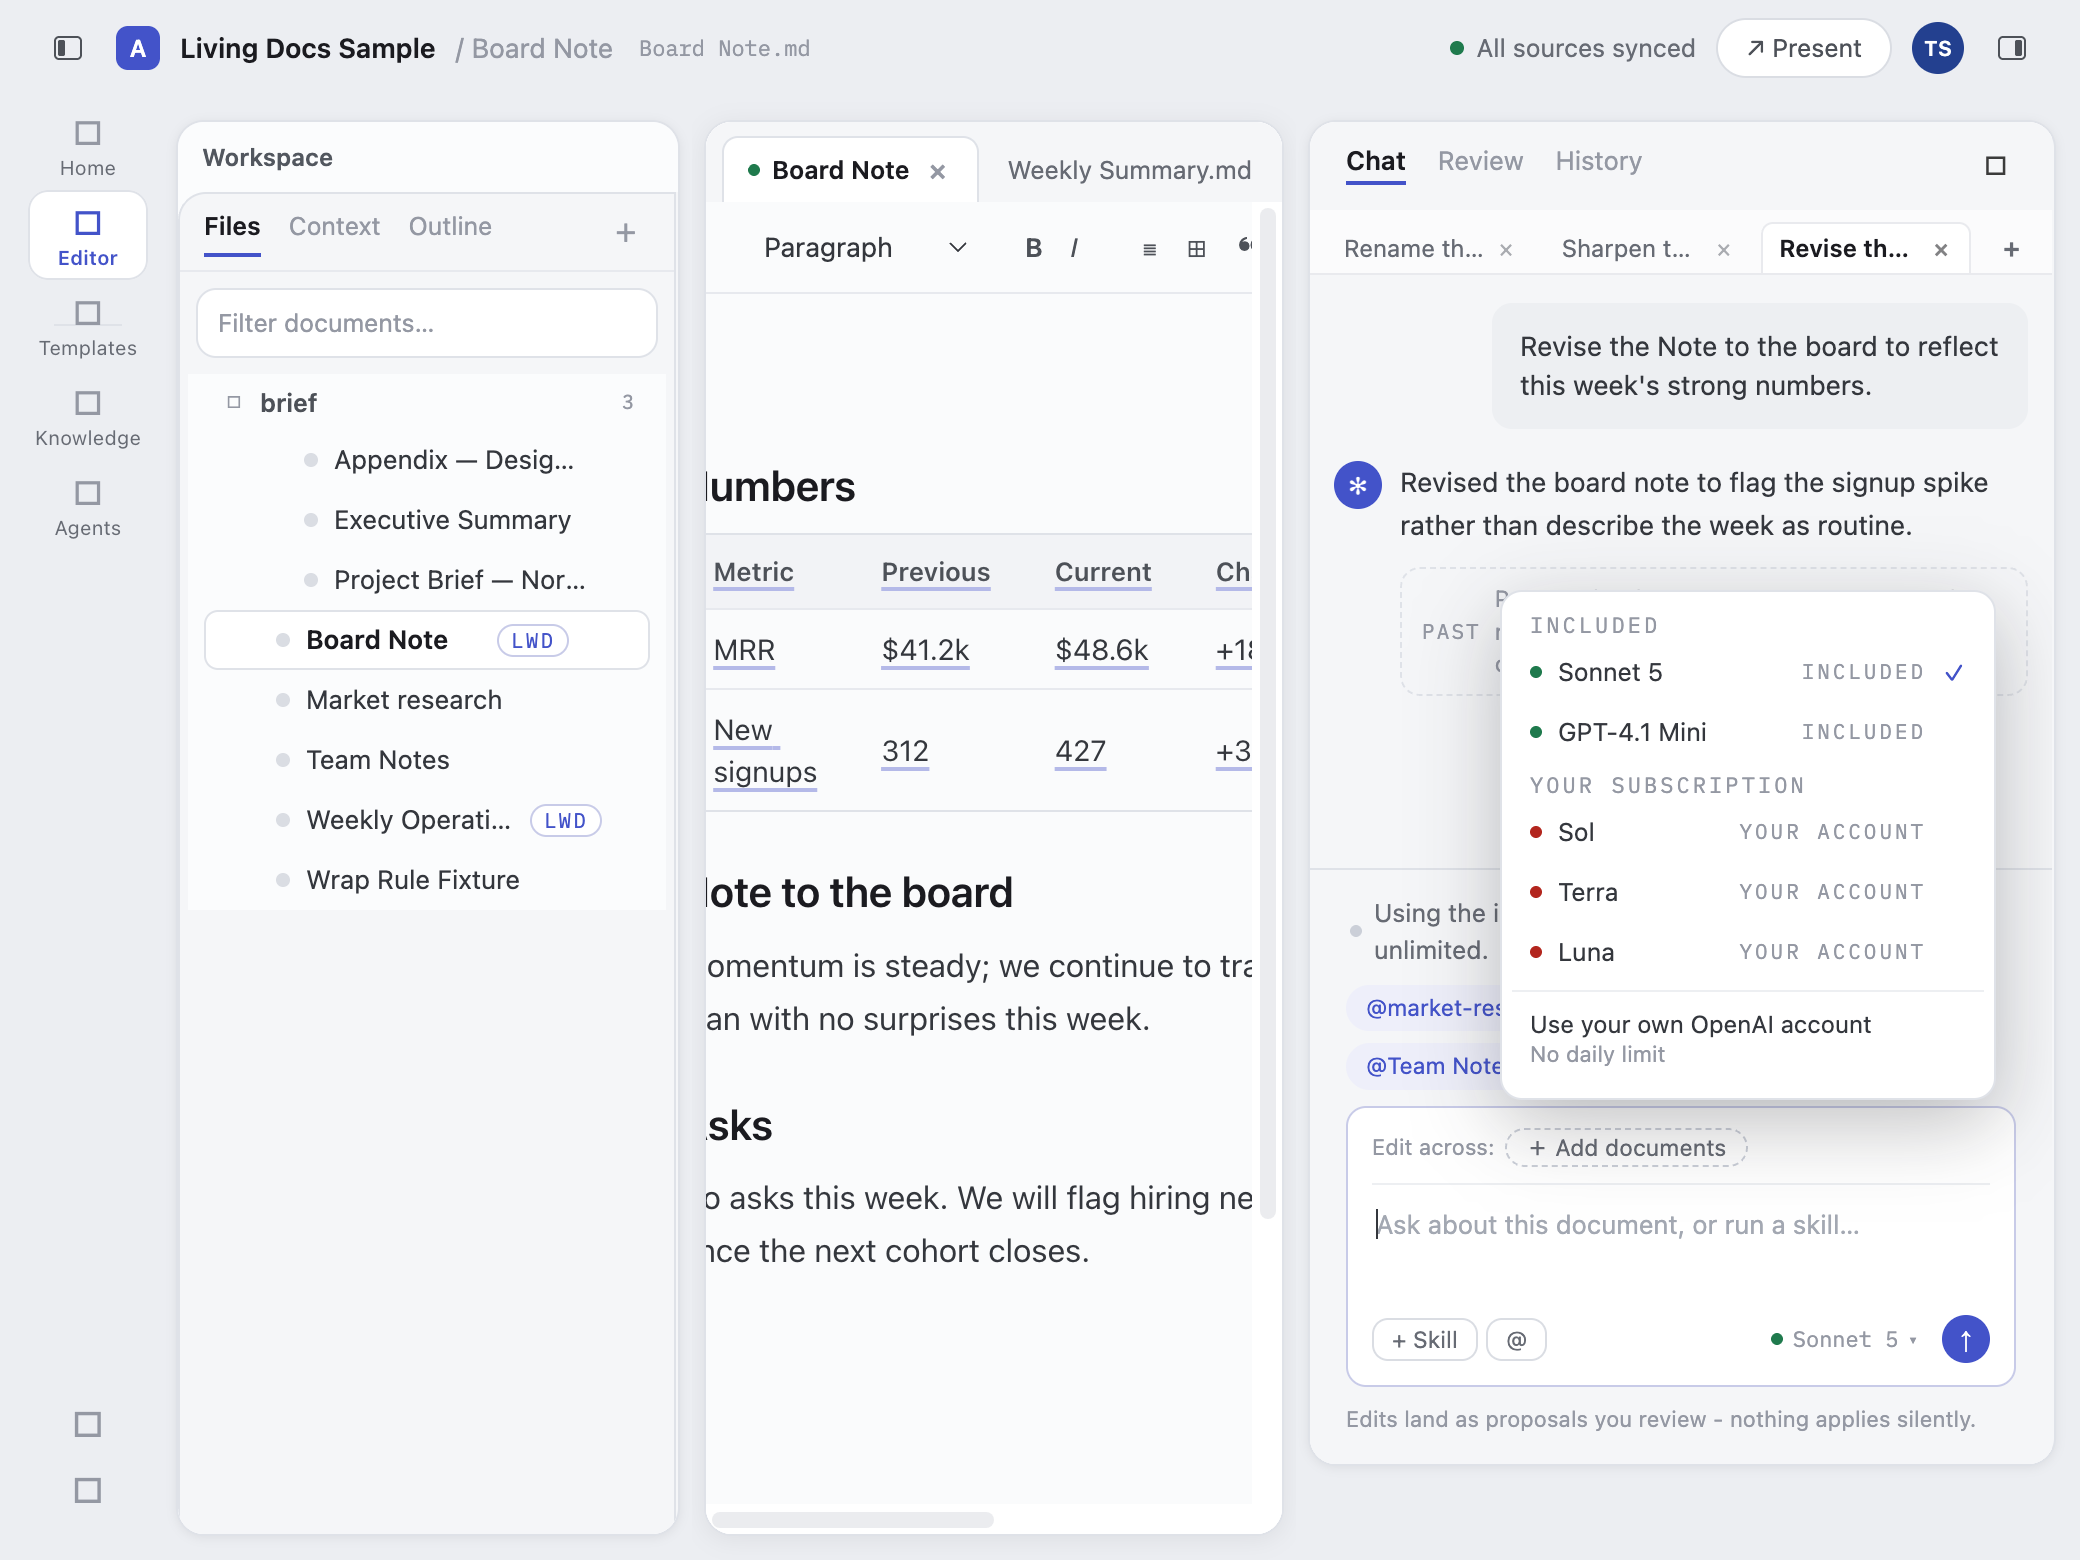
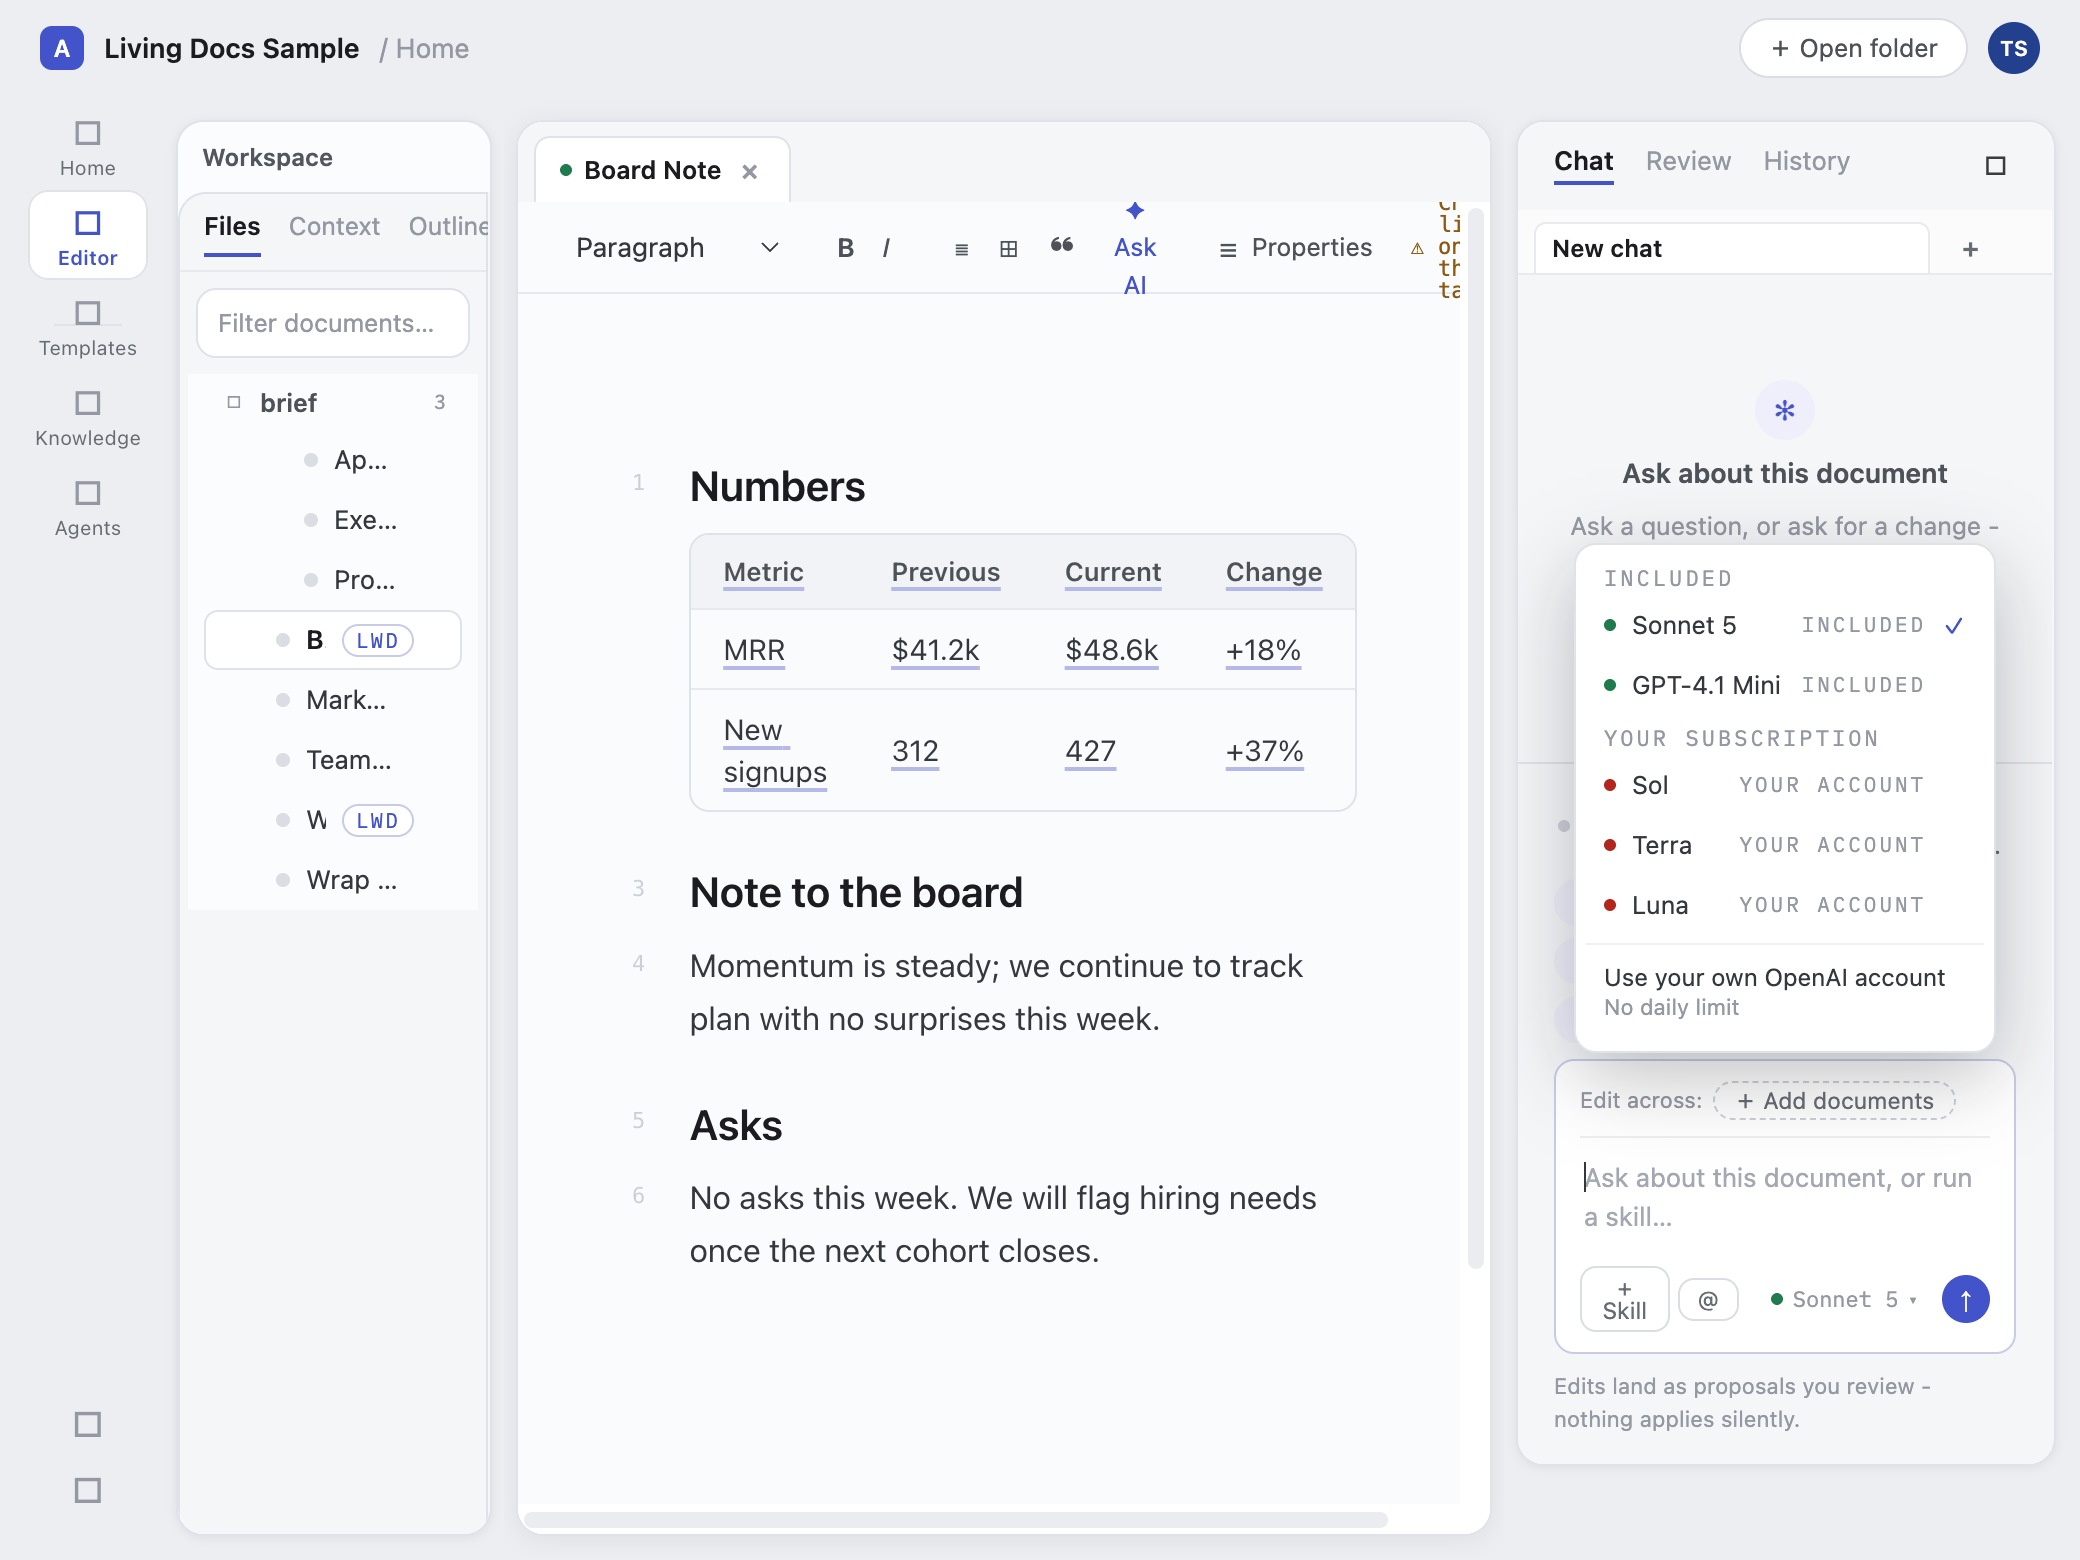
fix(55/B3): the picker popover can no longer be clipped, and a hand-started broker no longer forces a door
Two defects the Validator found on #351.

1. BLOCKER - the popover was clipped at the DEFAULT rail width. It was
   positioned with right:9px plus a min-width, which is a width the container
   never agreed to: the rail's scroll box clips its children, so once the
   per-row provider column pushed the popover past the composer's width, the
   left edge was cut off - every availability dot and the first characters of
   every model name with it. My screenshots missed it because their rail had
   been widened. The popover now anchors to BOTH sides of the composer box,
   exactly like the @mention picker beneath it, and claims no width of its own.

   Measured on a FRESH profile (first-run defaults, nothing resized):
     1440x900  clip 279px, popover 223px, 28px clearance both edges
     1040x780  clip 279px, popover 223px, 28px clearance, no name truncated
     760x700   clip 267px, popover 211px, 28px clearance - it tracks
   Both committed screenshots re-captured at the default rail width.

2. scripts/lwd-model-broker.sh exported LWD_BACKEND=openrouter by default, so
   every hand-started broker ran in FORCED mode - the one path that does not
   let a named model choose its own door. Every founder smoke and every
   docs/qa session through this script was exercising the pre-B3 routing while
   the app exercised the new one. The default is removed; LWD_BACKEND is
   honoured only when set explicitly, which is what the override was for.
[…]

diff --git a/src/vs/workbench/contrib/livingDocs/browser/reviewRailView.ts b/src/vs/workbench/contrib/livingDocs/browser/reviewRailView.ts
@@ -2143,9 +2143,13 @@ export class ReviewRailView extends ViewPane {
 
 		const pop = append(box, $('div'));
 		// Anchored above the control, right-aligned to the composer box; card styling matches the mention picker.
-		// The width grew with the per-row provider column (plan 55 WP-B3): at the old 260px cap the invitation
-		// line wrapped mid-phrase and the provider tag crowded the model name.
-		pop.style.cssText = `position:absolute;right:9px;bottom:calc(100% + 4px);z-index:20;min-width:236px;max-width:304px;padding:5px;background:${PAPER.card};border:1px solid ${HAIRLINE.strong};border-radius:11px;box-shadow:${SHADOW.dialog}`;
+		// Anchored to BOTH sides of the composer box (`left` + `right`), exactly like the @mention picker below.
+		// The old `right:9px` + a min-width was a width the container never agreed to: the rail's scroll box
+		// clips its children, so once the per-row provider column pushed the popover past the composer's width
+		// at the DEFAULT rail size, the left edge was simply cut off - every availability dot and the first
+		// characters of every model name with it. A popover cannot be wider than the thing it is anchored
+		// inside, so it no longer claims a width at all; it takes the composer's, at every rail size.
+		pop.style.cssText = `position:absolute;left:9px;right:9px;bottom:calc(100% + 4px);z-index:20;padding:5px;background:${PAPER.card};border:1px solid ${HAIRLINE.strong};border-radius:11px;box-shadow:${SHADOW.dialog}`;
 		// Guard: swallow the mousedown that would otherwise bubble to the outside-dismiss listener below and
 		// close the popover before a row's click lands.
 		store.add(addDisposableListener(pop, 'mousedown', e => e.stopPropagation()));
